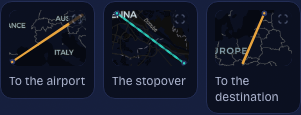
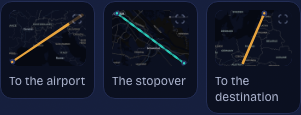
Draw each preview three times its box, so a city label fits inside it
The owner asked for a map with roads. He got one, and MapLibre wrote "VIENNA"
across it at the size a full-screen map uses, because labels are laid out in CSS
pixels and a preview is 120 units wide. The three thumbnails read "ENNA", "ROPE"
and "AUS", which is a feature that looks broken.

So the hidden container is three times the box in each direction and the same
bounds are fitted into it. The ground does not move, because the bounds are what
fixes it and MapLibre absorbs the difference as `log2(3)` more zoom. What changes
is that a label drawn at its ordinary pixel size lands on a picture that is then
scaled into the box, so it arrives at a third of the apparent size.

Three, not two, and read off the pictures rather than argued. The box renders at
about 92px on a phone and about 205px at 1280, so the desktop row is where a
label is largest against its picture and where crowding shows first. Two still
lost VIENNA's first letter there. Three fits every city and country name inside
its own thumbnail at both widths.

`maxZoom` goes from 24 to 26 to keep the headroom the supersample eats. The
ceiling is not decoration: a clamped zoom frames a window the route was not drawn
against, and nothing in the picture would say so. A one-metre leg, shorter than
any journey, reaches 24.6 at this factor, and there is now a test that says so
rather than a comment claiming it.

Cost, measured on a five-card page: the first preview stops being grey at 1760ms
[…]

diff --git a/src/lib/itinerary-map/map-snapshot.svelte.ts b/src/lib/itinerary-map/map-snapshot.svelte.ts
@@ -25,6 +25,19 @@
  * the instance is worth keeping alive between captures and expensive to build per
  * capture. `map.remove()` takes the page's canvas count back to zero.
  *
+ * ## Why the capture is bigger than the box
+ *
+ * MapLibre sizes labels in CSS pixels, so a 120px-wide map gets the same "VIENNA" a
+ * full-screen one does and the word covers the leg. The first build of this shipped
+ * previews reading "ENNA" and "ROPE", which is a feature that looks broken.
+ *
+ * So the hidden container is `SUPERSAMPLE` times the preview's box in each direction and
+ * the same bounds are fitted into it. The geography does not move, because the bounds are
+ * what fixes it and MapLibre takes the extra `log2(SUPERSAMPLE)` of zoom to cover them.
+ * What changes is that a label drawn at its normal pixel size sits on a picture that is
+ * then scaled down into the box, so it comes out at 1/N of the apparent size. The device
+ * pixel ratio still multiplies on top, so a phone gets N x dpr real pixels per box pixel.
+ *
  * ## Reading a snapshot from a `$derived` without hanging the page
  *
  * This is `land-tiles.svelte.ts`'s shape again, and its header records the outage the
@@ -61,6 +74,34 @@ export interface SnapshotCamera {
 const TILE_SIZE = 512;
 
 /**
+ * How many times the preview's box the map is actually drawn at, before the picture is
+ * scaled back down into it. See the header for why a small map needs this at all.
+ *
+ * Three, read off the pictures rather than picked. The box is 120 units wide and renders
+ * anywhere from about 92px on a 375px phone to about 205px on a 1280px screen, so the
+ * desktop row is where a label is largest against its picture and where crowding shows
+ * first. At one, "VIENNA" ran past both edges and read "ENNA". At two it still lost its
+ * first letter at 1280. At three every city and country name sits inside its own
+ * thumbnail, and a dpr-2 phone still gets 720x528 real pixels for an 88px-tall box, which
+ * is more than enough for the roads the owner asked for.
+ */
+export const SUPERSAMPLE = 3;
+
+/**
+ * The zoom the hidden map is allowed to reach, past MapLibre's own default of 22.
+ *
+ * The ceiling exists because clamping would silently frame a different window from the one
+ * the route is drawn against, which is the one thing these pictures may not do. Past 22
+ * CARTO has no deeper tile and MapLibre stretches the last one, which is blurrier and
+ * still in the right place, so overshooting the tile set costs nothing that matters.
+ *
+ * 26 rather than 24 because `SUPERSAMPLE` adds `log2(SUPERSAMPLE)` to every zoom, and the
+ * headroom has to survive that. `map-snapshot.test.ts` checks the tightest leg this app
+ * can produce against it rather than trusting the arithmetic here.
+ */
+export const MAX_CAPTURE_ZOOM = 26;
+
+/**
  * The camera that puts exactly this frame in a box this many CSS pixels wide.
  *
  * Exact rather than close: the route is drawn over the picture by `RoutePreview` against
@@ -94,19 +135,22 @@ export function snapshotKey(
 	width: number,
 	height: number,
 	pixelRatio: number,
+	supersample: number,
 	scheme: ColorScheme
 ): string {
 	const round = (n: number) => Math.round(n * 1e6) / 1e6;
 	const bounds = [frame.west, frame.south, frame.east, frame.north].map(round).join(',');
-	return `${scheme}|${width}x${height}@${round(pixelRatio)}|${bounds}`;
+	return `${scheme}|${width}x${height}@${round(pixelRatio)}x${supersample}|${bounds}`;
 }
 
 interface SnapshotRequest {
 	key: string;
 	camera: SnapshotCamera;
+	/** The preview's own box, in CSS pixels. The map is drawn at `SUPERSAMPLE` times this. */
 	width: number;
 	height: number;
 	pixelRatio: number;
+	supersample: number;
 	scheme: ColorScheme;
 }
 
@@ -116,6 +160,7 @@ interface Renderer {
 	width: number;
 	height: number;
 	pixelRatio: number;
+	supersample: number;
 	scheme: ColorScheme;
 }
 
@@ -151,16 +196,18 @@ const SETTLE_TIMEOUT_MS = 8_000;
  */
 export function mapSnapshot(frame: PreviewFrame, width: number, height: number): string | undefined {
 	if (!browser) return undefined;
-	const camera = cameraForFrame(frame, width);
+	// Framed for the supersampled canvas, not for the box. Same bounds either way, so the
+	// picture shows the same ground; the zoom is what absorbs the difference.
+	const camera = cameraForFrame(frame, width * SUPERSAMPLE);
 	if (!camera) return undefined;
 
 	const scheme = colorScheme();
 	const pixelRatio = window.devicePixelRatio || 1;
-	const key = snapshotKey(frame, width, height, pixelRatio, scheme);
+	const key = snapshotKey(frame, width, height, pixelRatio, SUPERSAMPLE, scheme);
 
 	if (!asked.has(key)) {
 		asked.add(key);
-		queue.push({ key, camera, width, height, pixelRatio, scheme });
+		queue.push({ key, camera, width, height, pixelRatio, supersample: SUPERSAMPLE, scheme });
 		void drain();
 	}
 
@@ -218,7 +265,8 @@ function matches(current: Renderer | undefined, request: SnapshotRequest): curre
 		current.scheme === request.scheme &&
 		current.width === request.width &&
 		current.height === request.height &&
-		current.pixelRatio === request.pixelRatio
+		current.pixelRatio === request.pixelRatio &&
+		current.supersample === request.supersample
 	);
 }
 
@@ -237,7 +285,8 @@ async function build(request: SnapshotRequest): Promise<void> {
 	// one canvas apart from a dialog's when it counts live contexts.
 	container.className = 'map-snapshot-renderer';
 	container.setAttribute('aria-hidden', 'true');
-	container.style.cssText = `position:fixed;top:0;left:-10000px;pointer-events:none;width:${request.width}px;height:${request.height}px`;
+	const drawn = { width: request.width * request.supersample, height: request.height * request.supersample };
+	container.style.cssText = `position:fixed;top:0;left:-10000px;pointer-events:none;width:${drawn.width}px;height:${drawn.height}px`;
 	// Attached before the instance exists, because MapLibre sizes itself from the
 	// container's `clientWidth` and a detached element measures zero. So a constructor that
 	// throws, which is what a device with no WebGL does, has to take the element back out
@@ -266,6 +315,7 @@ async function build(request: SnapshotRequest): Promise<void> {
 		width: request.width,
 		height: request.height,
 		pixelRatio: request.pixelRatio,
+		supersample: request.supersample,
 		scheme: request.scheme
 	};
 	await settled;
@@ -293,13 +343,7 @@ function createMap(
 		// A tile fading in is a tile that is not finished, and this reads the canvas the
 		// moment the map goes idle.
 		fadeDuration: 0,
-		// A hotel-to-airport hop is a few kilometres and frames well under MapLibre's own
-		// default ceiling of 22, but a walk from a terminal to its own car park does not.
-		// Clamping the zoom there would silently frame a different window from the one the
-		// route is drawn against, so the ceiling is lifted instead: past 22 CARTO has no
-		// deeper tile and MapLibre stretches the last one, which is blurrier and still in
-		// the right place.
-		maxZoom: 24,
+		maxZoom: MAX_CAPTURE_ZOOM,
 		pixelRatio: request.pixelRatio
 	});
 }

diff --git a/src/lib/itinerary-map/map-snapshot.test.ts b/src/lib/itinerary-map/map-snapshot.test.ts
@@ -1,5 +1,5 @@
 import { describe, expect, it } from 'vitest';
-import { cameraForFrame, snapshotKey } from './map-snapshot.svelte';
+import { cameraForFrame, MAX_CAPTURE_ZOOM, snapshotKey, SUPERSAMPLE } from './map-snapshot.svelte';
 import { mercatorY, projectToBox, type PreviewFrame } from './geo';
 
 /**
@@ -64,6 +64,39 @@ describe('cameraForFrame', () => {
 		expect((shape.frame.north - shape.frame.south) * (worldPixels / 360)).toBeCloseTo(88, 6);
 	});
 
+	it('shows the same ground supersampled, one zoom step per doubling', () => {
+		// The whole safety argument for drawing bigger than the box. The bounds are what
+		// fixes the geography, so the centre may not move and the extra zoom must be exactly
+		// what covers the same span across more pixels. Anything else and the route would be
+		// stroked against a window the map is not showing.
+		const frame = frameOf(2, mercatorY(41), 2.1, mercatorY(41.08));
+		const box = cameraForFrame(frame, 120)!;
+		const drawn = cameraForFrame(frame, 120 * SUPERSAMPLE)!;
+		expect(drawn.center[0]).toBe(box.center[0]);
+		expect(drawn.center[1]).toBe(box.center[1]);
+		expect(drawn.zoom - box.zoom).toBeCloseTo(Math.log2(SUPERSAMPLE), 12);
+	});
+
+	it('keeps the tightest leg this app can draw clear of the zoom clamp', () => {
+		// `MAX_CAPTURE_ZOOM` is a promise that MapLibre never clamps, because a clamped zoom
+		// frames a window the route was not drawn against and nothing on the picture says
+		// so. The tightest thing a ground leg can be is a walk of a few metres, so this
+		// takes one metre, which is shorter than any journey, and checks it still fits.
+		const oneMetreInDegrees = 1 / 111_320;
+		const shape = projectToBox(
+			[
+				[
+					{ latitude: 41.3851, longitude: 2.1734 },
+					{ latitude: 41.3851, longitude: 2.1734 + oneMetreInDegrees }
+				]
+			],
+			[],
+			{ width: 120, height: 88, padding: 5 }
+		);
+		const camera = cameraForFrame(shape.frame, 120 * SUPERSAMPLE)!;
+		expect(camera.zoom).toBeLessThan(MAX_CAPTURE_ZOOM);
+	});
+
 	it('has no camera for a frame with no width', () => {
 		// `projectToBox` reports west === east for a leg that does not move. There is no
 		// window to photograph and no zoom that would produce one.
@@ -75,17 +108,19 @@ describe('cameraForFrame', () => {
 describe('snapshotKey', () => {
 	it('gives one key to two cards looking at the same window', () => {
 		const frame = frameOf(2.0785, 40.1, 2.1734, 40.2);
-		expect(snapshotKey(frame, 120, 88, 2, 'dark')).toBe(snapshotKey({ ...frame }, 120, 88, 2, 'dark'));
+		expect(snapshotKey(frame, 120, 88, 2, 3, 'dark')).toBe(snapshotKey({ ...frame }, 120, 88, 2, 3, 'dark'));
 	});
 
 	it('separates the things that change the pixels', () => {
 		const frame = frameOf(2.0785, 40.1, 2.1734, 40.2);
-		const base = snapshotKey(frame, 120, 88, 2, 'dark');
-		expect(snapshotKey(frame, 120, 88, 2, 'light')).not.toBe(base);
-		expect(snapshotKey(frame, 240, 88, 2, 'dark')).not.toBe(base);
-		expect(snapshotKey(frame, 120, 176, 2, 'dark')).not.toBe(base);
-		expect(snapshotKey(frame, 120, 88, 1, 'dark')).not.toBe(base);
-		expect(snapshotKey(frameOf(2.0785, 40.1, 2.1734, 40.3), 120, 88, 2, 'dark')).not.toBe(base);
+		const base = snapshotKey(frame, 120, 88, 2, 3, 'dark');
+		expect(snapshotKey(frame, 120, 88, 2, 3, 'light')).not.toBe(base);
+		expect(snapshotKey(frame, 240, 88, 2, 3, 'dark')).not.toBe(base);
+		expect(snapshotKey(frame, 120, 176, 2, 3, 'dark')).not.toBe(base);
+		expect(snapshotKey(frame, 120, 88, 1, 3, 'dark')).not.toBe(base);
+		// The supersample decides how big a label is against the box, so it is pixels too.
+		expect(snapshotKey(frame, 120, 88, 2, 2, 'dark')).not.toBe(base);
+		expect(snapshotKey(frameOf(2.0785, 40.1, 2.1734, 40.3), 120, 88, 2, 3, 'dark')).not.toBe(base);
 	});
 
 	it('rounds the bounds, so two routes to the same window share a capture', () => {
@@ -94,6 +129,6 @@ describe('snapshotKey', () => {
 		// would capture the same picture once per card.
 		const frame = frameOf(2.0785, 40.1, 2.1734, 40.2);
 		const nudged = frameOf(2.0785 + 1e-9, 40.1, 2.1734, 40.2 - 1e-9);
-		expect(snapshotKey(nudged, 120, 88, 2, 'dark')).toBe(snapshotKey(frame, 120, 88, 2, 'dark'));
+		expect(snapshotKey(nudged, 120, 88, 2, 3, 'dark')).toBe(snapshotKey(frame, 120, 88, 2, 3, 'dark'));
 	});
 });
